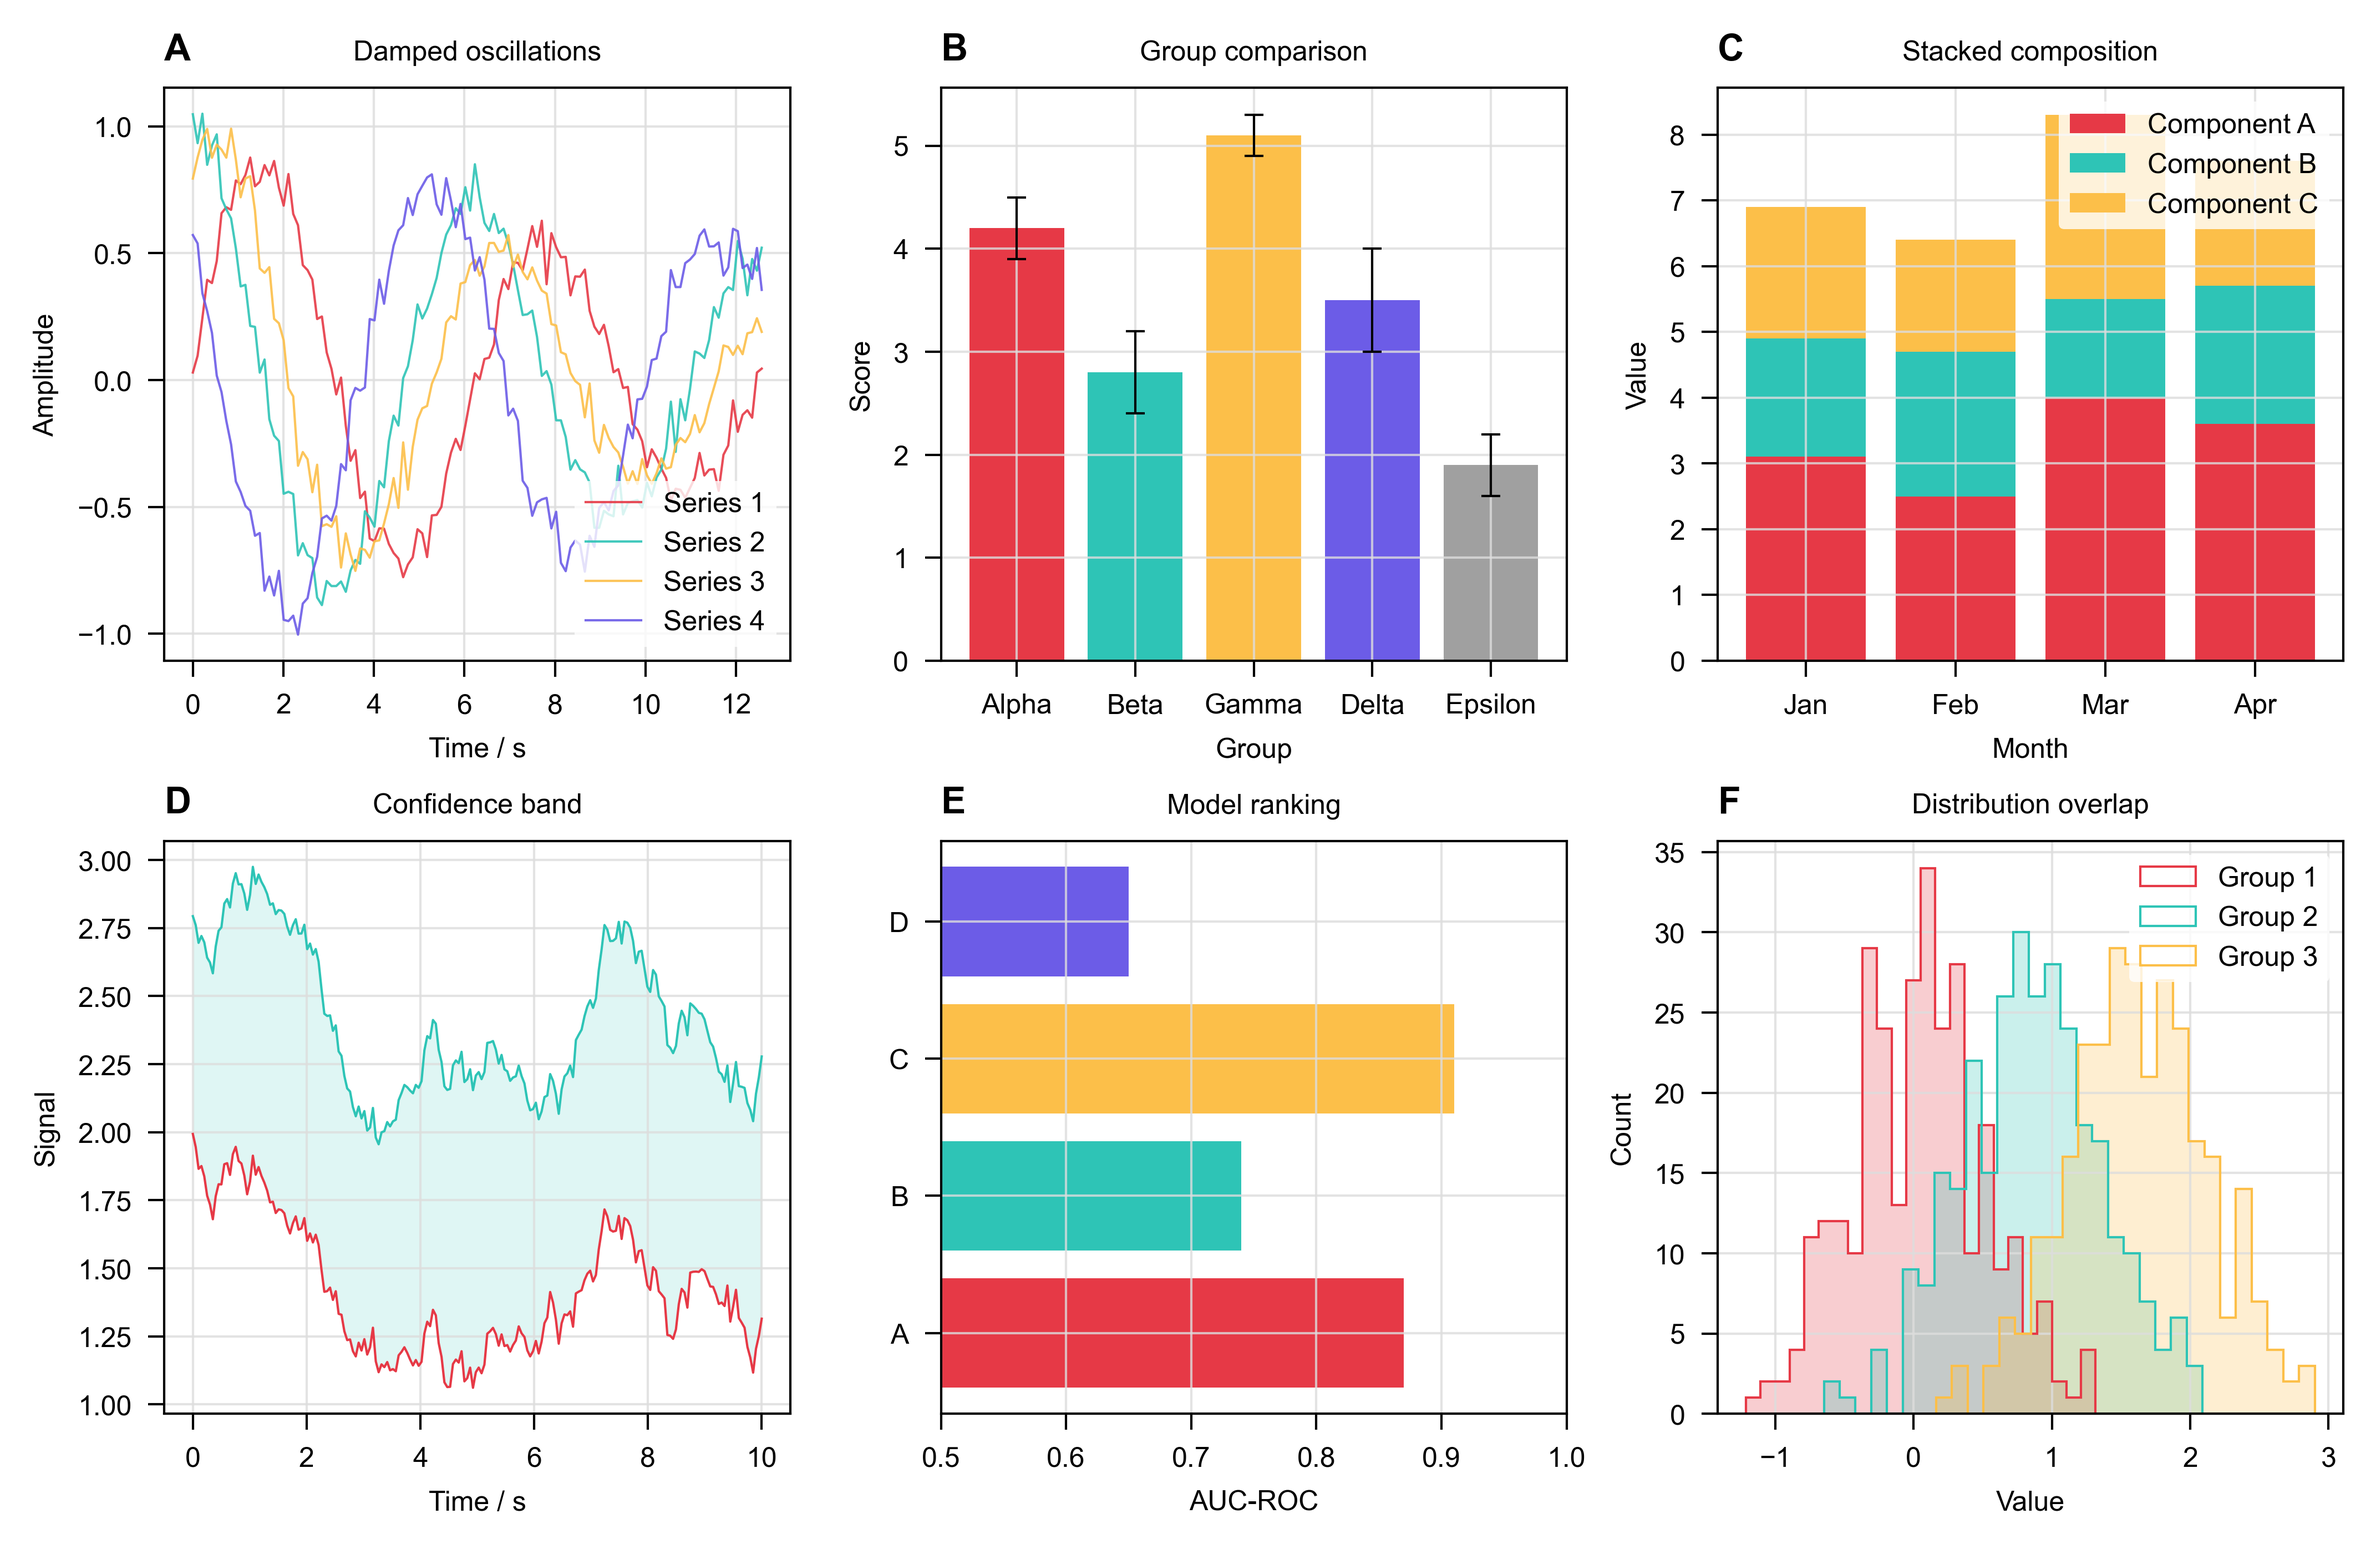
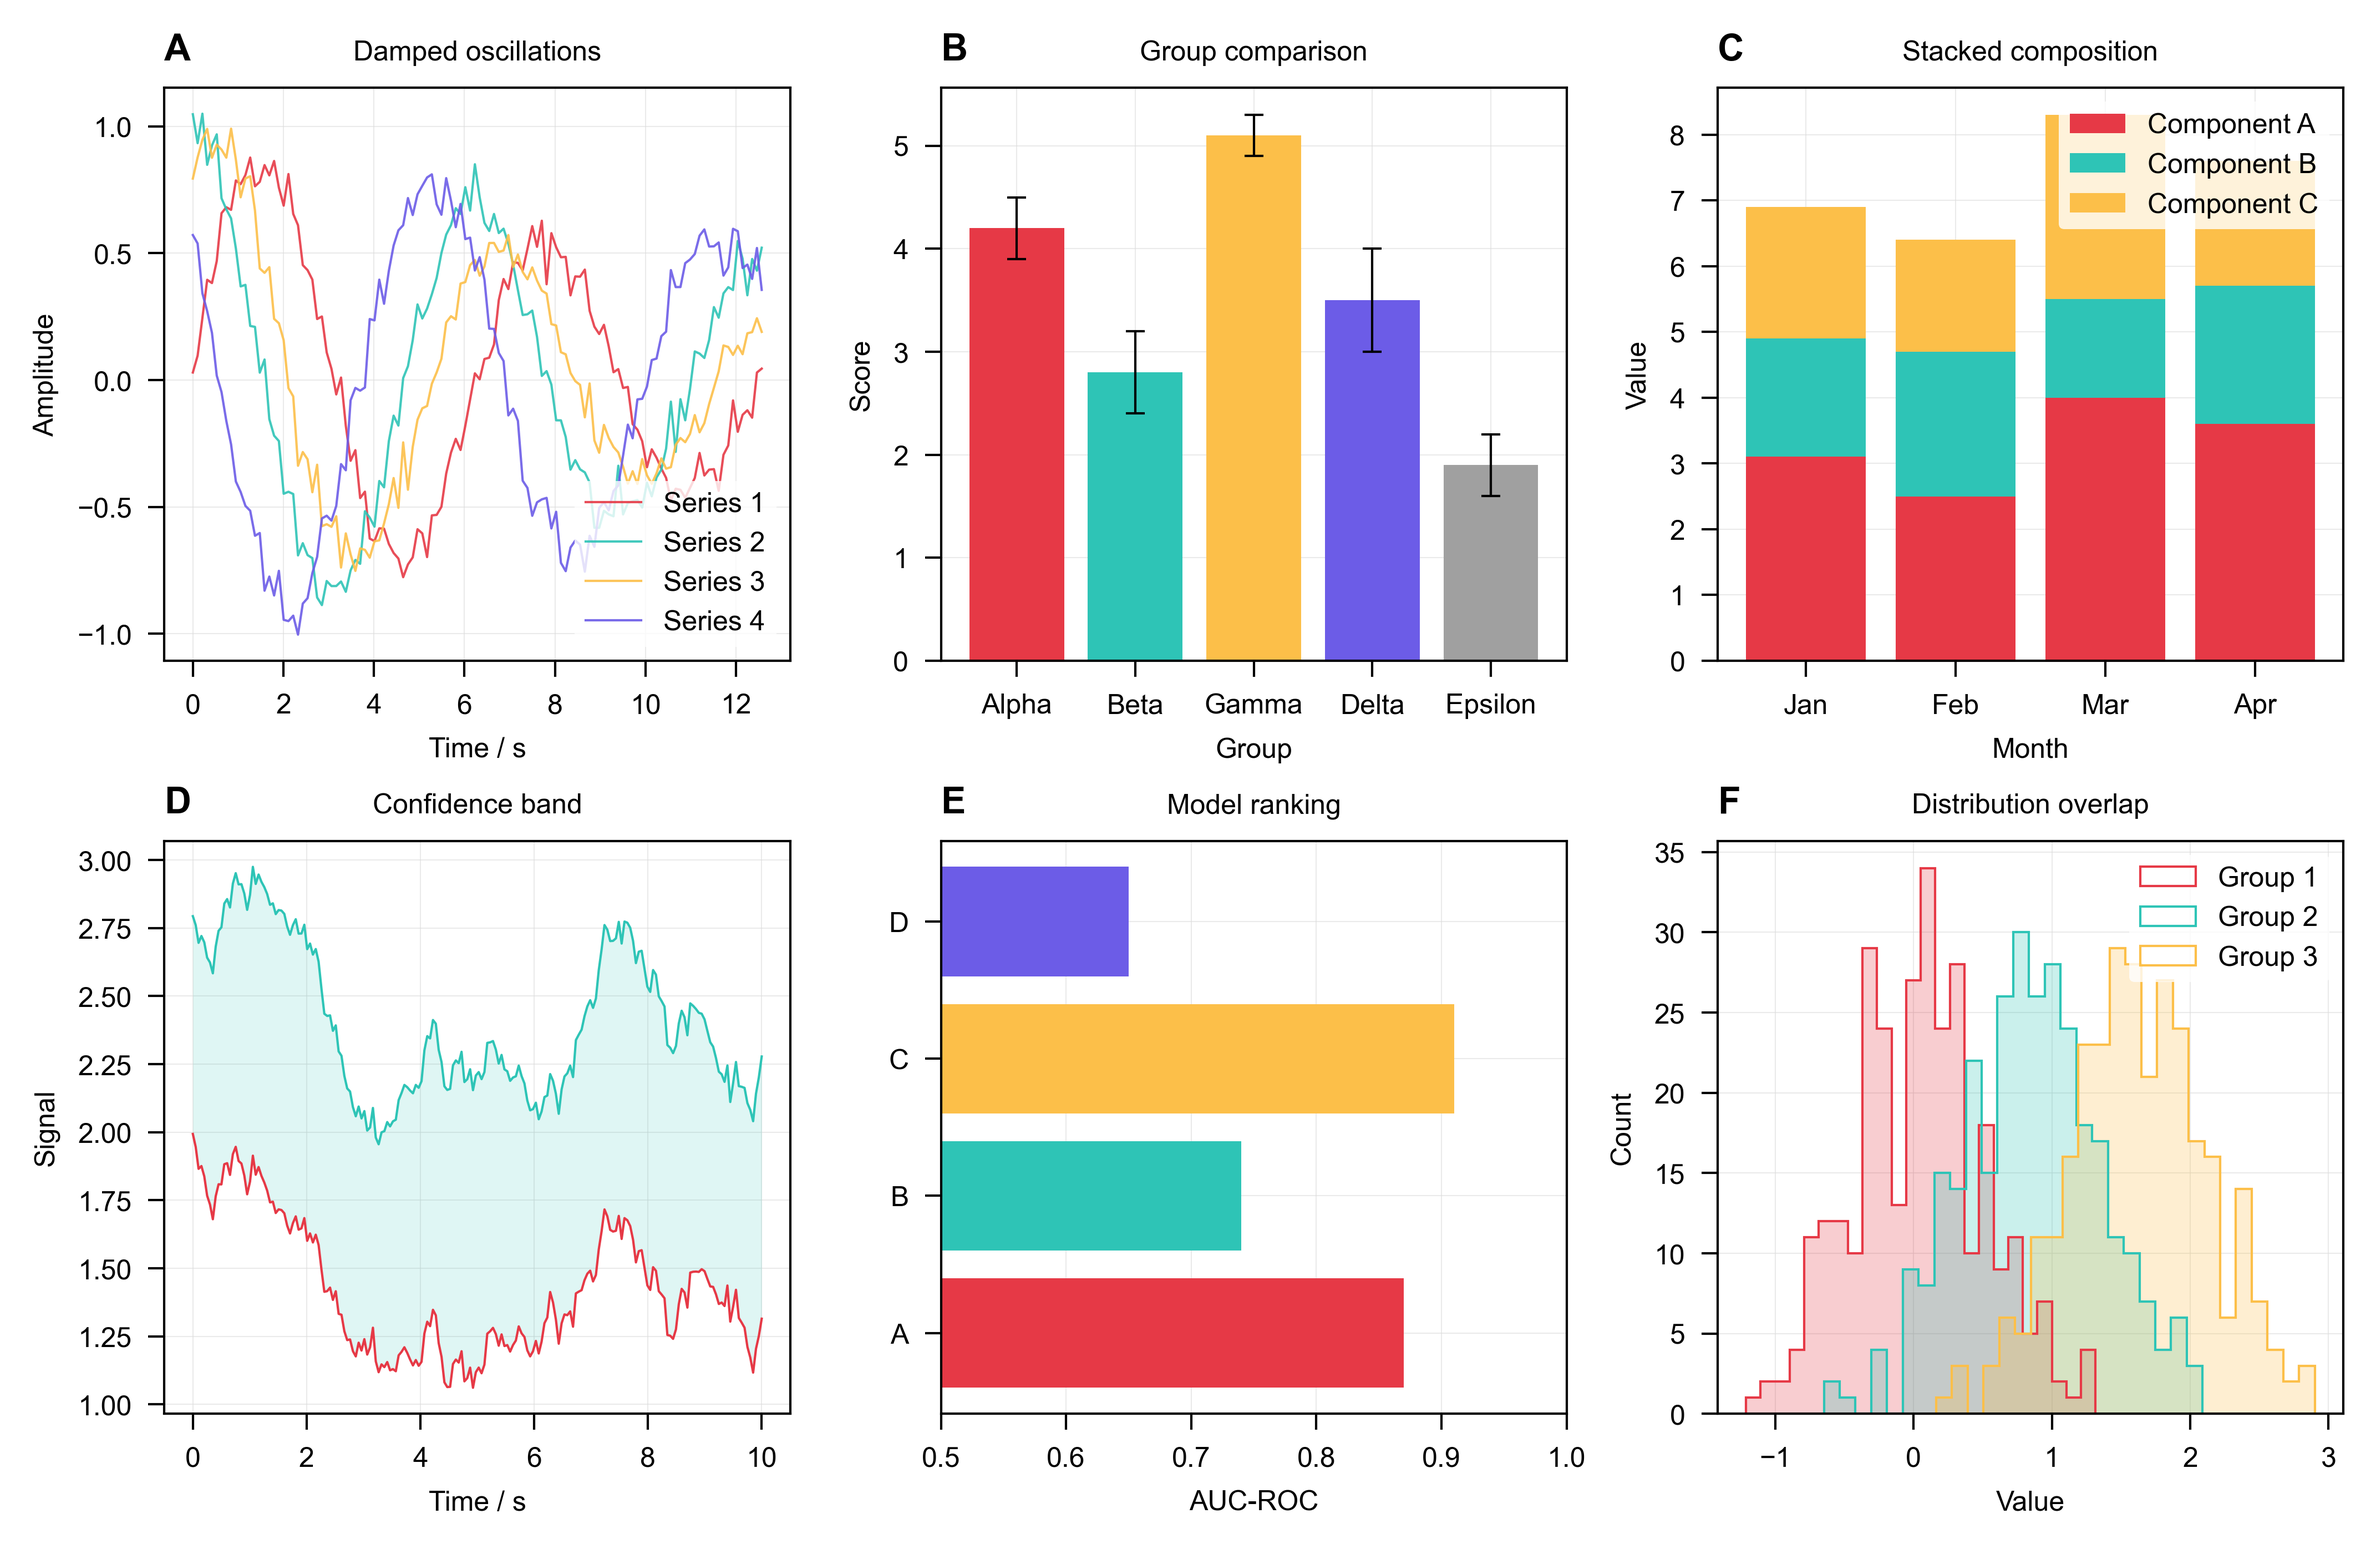
Send gridlines behind data; make them thinner and lighter
- axes.axisbelow=True globally via rcParams
- ax.set_axisbelow(True) in stylize() for per-axes guarantee
- Grid linewidth halved (lw * 0.5), alpha reduced to 0.6

diff --git a/stylia/figure/figure.py b/stylia/figure/figure.py
@@ -9,11 +9,12 @@ def stylize(ax):
     ax.set_xlabel("X-axis / Units")
     ax.set_ylabel("Y-axis / Units")
 
-    # Light grid so it doesn't compete with data
+    # Thin, light grid — always behind data
+    ax.set_axisbelow(True)
     try:
-        ax.grid(visible=True, linewidth=lw, color="#DDDDDD", alpha=0.8)
+        ax.grid(visible=True, linewidth=lw * 0.5, color="#DDDDDD", alpha=0.6)
     except TypeError:
-        ax.grid(b=True, linewidth=lw, color="#DDDDDD", alpha=0.8)
+        ax.grid(b=True, linewidth=lw * 0.5, color="#DDDDDD", alpha=0.6)
 
     # Full frame with style-aware color
     for spine in ax.spines.values():

diff --git a/stylia/__init__.py b/stylia/__init__.py
@@ -13,6 +13,7 @@ mpl.rcParams["pdf.fonttype"] = 42
 mpl.rcParams["ps.fonttype"] = 42
 mpl.rcParams.update({
     "axes.grid": True,
+    "axes.axisbelow": True,
     "figure.autolayout": True,
     "axes.spines.top": True,
     "axes.spines.right": True,
